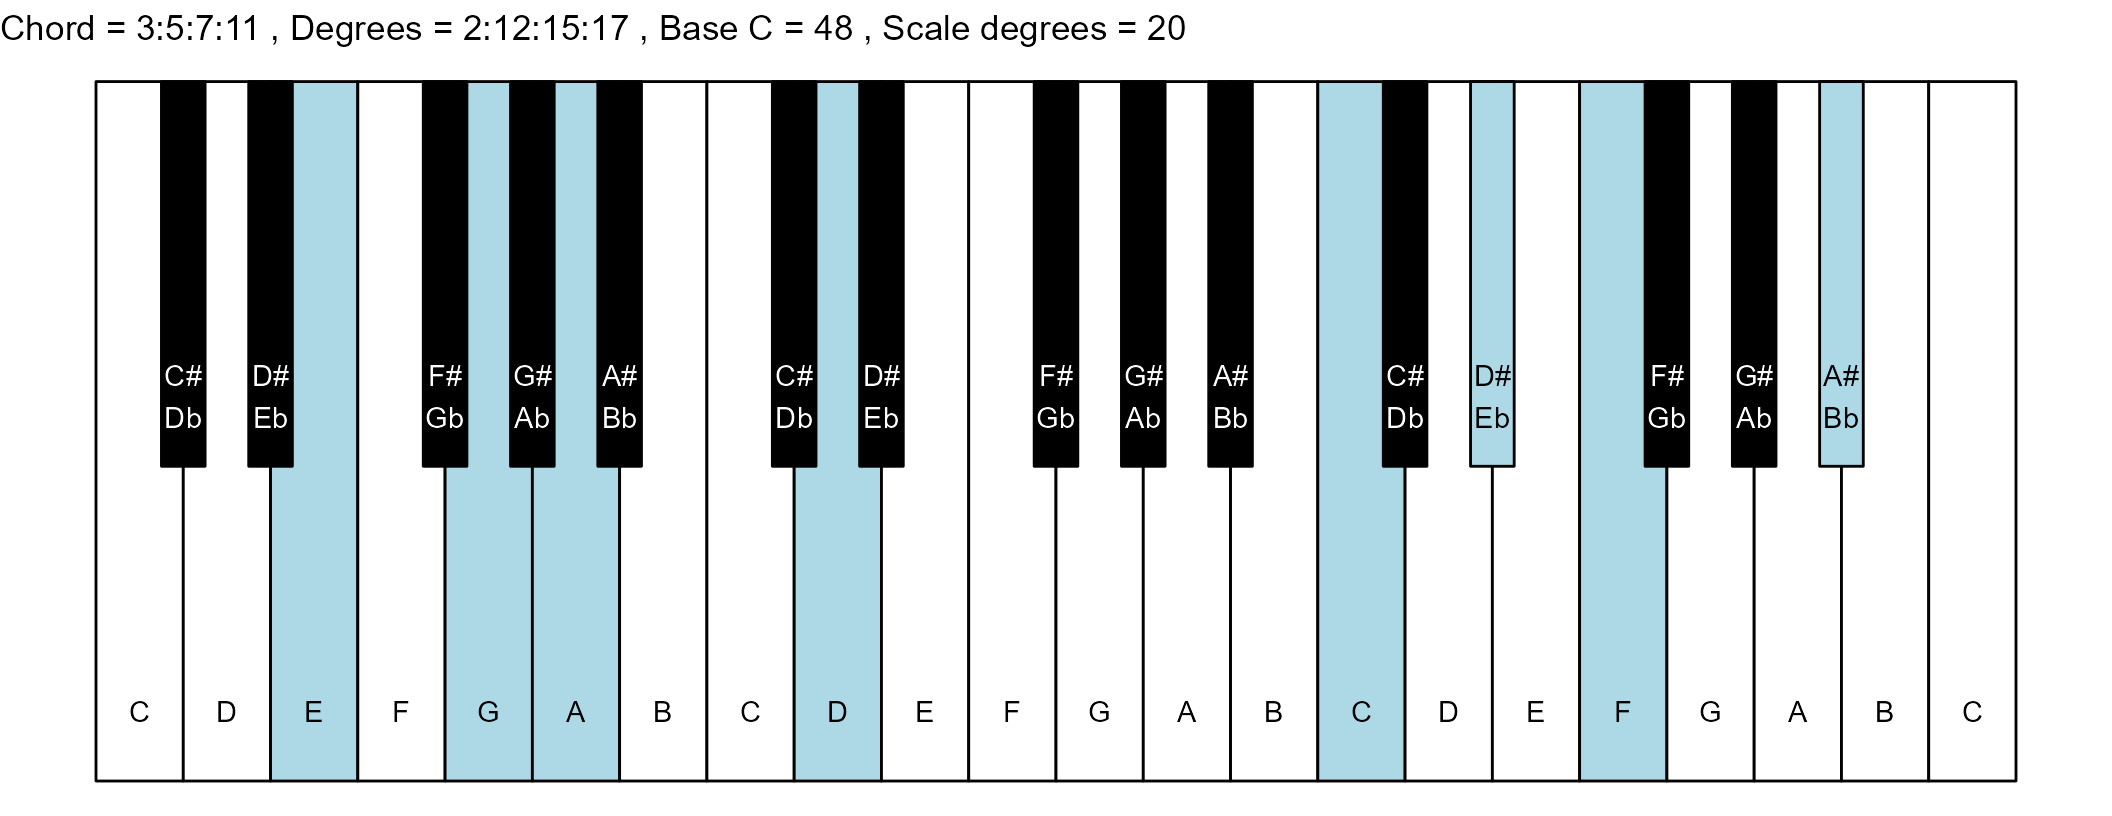
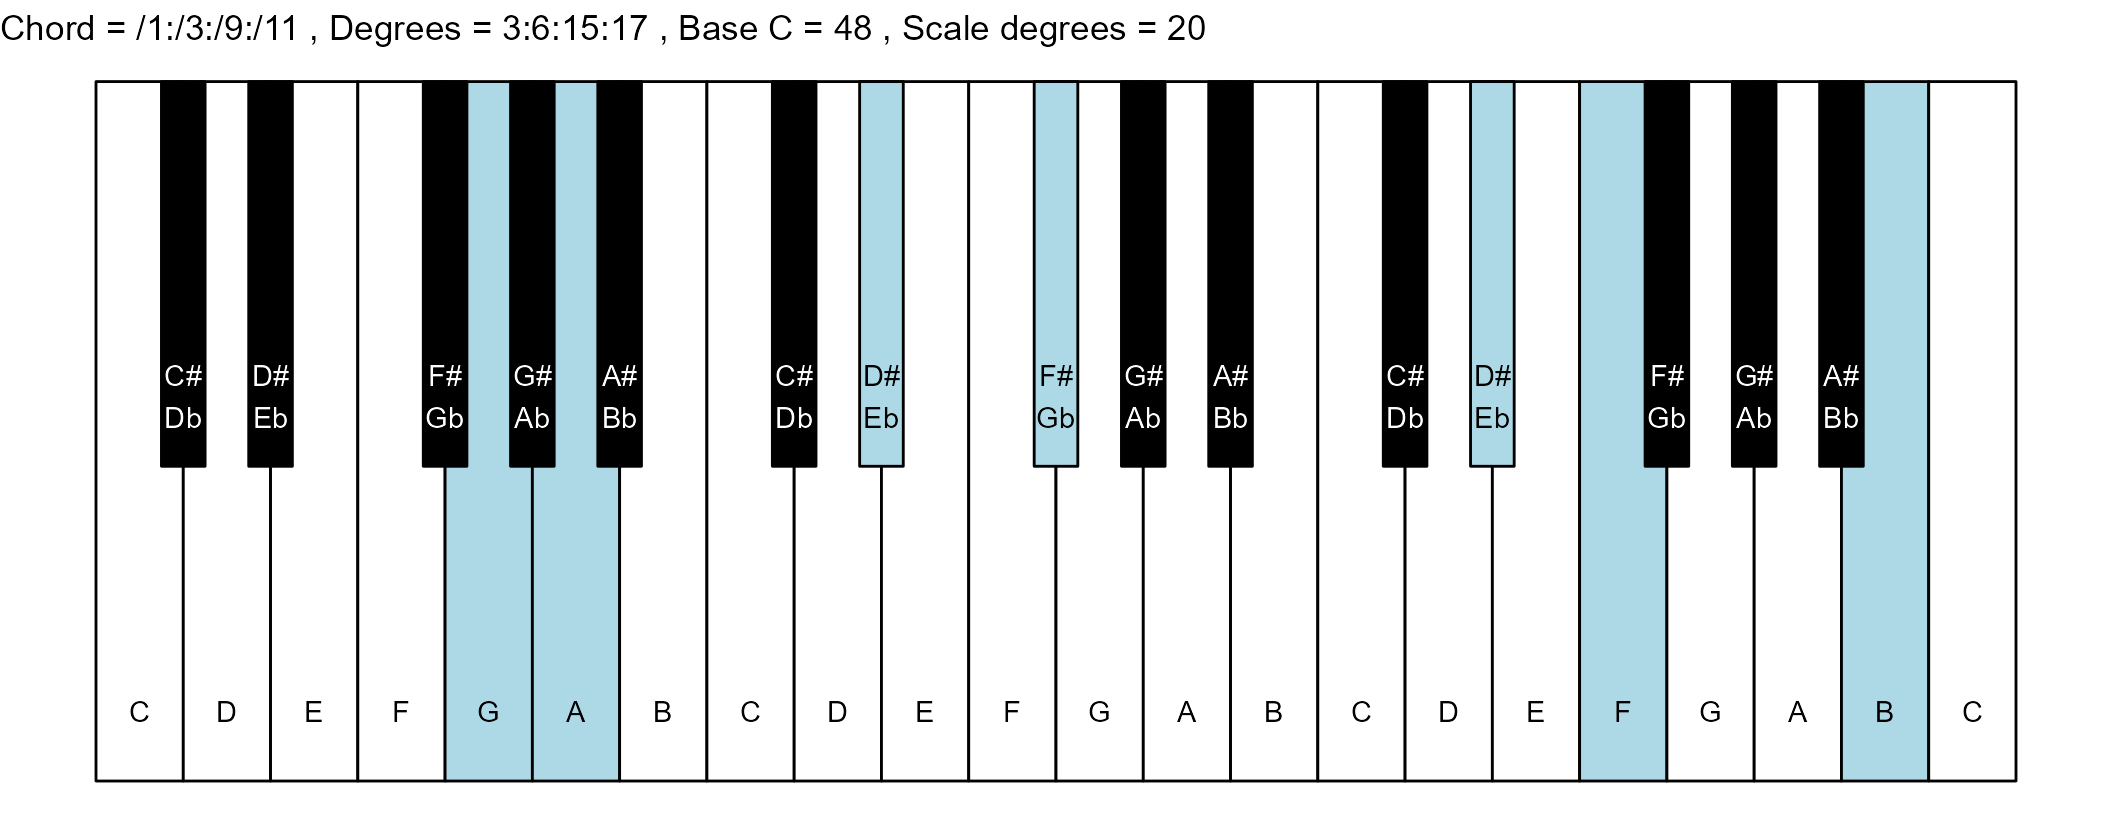
close issue #38

diff --git a/docs/articles/run-the-examples.html b/docs/articles/run-the-examples.html
@@ -225,38 +225,38 @@
 <code class="sourceCode R"><span></span>
 <span><span class="co"># compute the tetrads of the 1-3-5-7-9-11 Eikosany</span></span>
 <span><span class="fu"><a href="https://rdrr.io/r/base/print.html" class="external-link">print</a></span><span class="op">(</span><span class="va">eikosany_chords</span> <span class="op">&lt;-</span> <span class="fu"><a href="../reference/create_chord_table.html">create_chord_table</a></span><span class="op">(</span><span class="va">eikosany</span>, <span class="fl">4</span><span class="op">)</span><span class="op">)</span></span>
-<span><span class="co">#&gt;            chord     degrees</span></span>
-<span><span class="co">#&gt;  1:      1:3:5:7   1:6:11:15</span></span>
-<span><span class="co">#&gt;  2:      1:3:5:9  7:11:14:19</span></span>
-<span><span class="co">#&gt;  3:     1:3:5:11   2:8:11:13</span></span>
-<span><span class="co">#&gt;  4:      1:3:7:9   1:9:14:18</span></span>
-<span><span class="co">#&gt;  5:     1:3:7:11    1:4:8:12</span></span>
-<span><span class="co">#&gt;  6:     1:3:9:11   5:8:14:16</span></span>
-<span><span class="co">#&gt;  7:      1:5:7:9    3:6:9:19</span></span>
-<span><span class="co">#&gt;  8:     1:5:7:11   4:6:13:17</span></span>
-<span><span class="co">#&gt;  9:     1:5:9:11 10:13:16:19</span></span>
-<span><span class="co">#&gt; 10:     1:7:9:11    0:4:9:16</span></span>
-<span><span class="co">#&gt; 11:      3:5:7:9   3:7:15:18</span></span>
-<span><span class="co">#&gt; 12:     3:5:7:11  2:12:15:17</span></span>
-<span><span class="co">#&gt; 13:     3:5:9:11    2:5:7:10</span></span>
-<span><span class="co">#&gt; 14:     3:7:9:11   0:5:12:18</span></span>
-<span><span class="co">#&gt; 15:     5:7:9:11   0:3:10:17</span></span>
-<span><span class="co">#&gt; 16:  /1:/3:/5:/7   0:5:10:16</span></span>
-<span><span class="co">#&gt; 17:  /1:/3:/5:/9   0:4:12:17</span></span>
-<span><span class="co">#&gt; 18: /1:/3:/5:/11    0:3:9:18</span></span>
-<span><span class="co">#&gt; 19:  /1:/3:/7:/9  2:10:13:17</span></span>
-<span><span class="co">#&gt; 20: /1:/3:/7:/11   3:7:10:19</span></span>
-<span><span class="co">#&gt; 21: /1:/3:/9:/11   3:6:15:17</span></span>
-<span><span class="co">#&gt; 22:  /1:/5:/7:/9    2:5:8:12</span></span>
-<span><span class="co">#&gt; 23: /1:/5:/7:/11   5:7:14:18</span></span>
-<span><span class="co">#&gt; 24: /1:/5:/9:/11  1:12:15:18</span></span>
-<span><span class="co">#&gt; 25: /1:/7:/9:/11   2:7:11:15</span></span>
-<span><span class="co">#&gt; 26:  /3:/5:/7:/9   4:8:13:16</span></span>
-<span><span class="co">#&gt; 27: /3:/5:/7:/11  9:14:16:19</span></span>
-<span><span class="co">#&gt; 28: /3:/5:/9:/11     1:4:6:9</span></span>
-<span><span class="co">#&gt; 29: /3:/7:/9:/11  6:11:13:19</span></span>
-<span><span class="co">#&gt; 30: /5:/7:/9:/11   1:8:11:14</span></span>
-<span><span class="co">#&gt;            chord     degrees</span></span></code></pre></div>
+<span><span class="co">#&gt;            chord     degrees chord_index is_subharm</span></span>
+<span><span class="co">#&gt;  1:      1:3:5:7   1:6:11:15           1          0</span></span>
+<span><span class="co">#&gt;  2:  /1:/3:/5:/7   0:5:10:16           1          1</span></span>
+<span><span class="co">#&gt;  3:      1:3:5:9  7:11:14:19           2          0</span></span>
+<span><span class="co">#&gt;  4:  /1:/3:/5:/9   0:4:12:17           2          1</span></span>
+<span><span class="co">#&gt;  5:     1:3:5:11   2:8:11:13           3          0</span></span>
+<span><span class="co">#&gt;  6: /1:/3:/5:/11    0:3:9:18           3          1</span></span>
+<span><span class="co">#&gt;  7:      1:3:7:9   1:9:14:18           4          0</span></span>
+<span><span class="co">#&gt;  8:  /1:/3:/7:/9  2:10:13:17           4          1</span></span>
+<span><span class="co">#&gt;  9:     1:3:7:11    1:4:8:12           5          0</span></span>
+<span><span class="co">#&gt; 10: /1:/3:/7:/11   3:7:10:19           5          1</span></span>
+<span><span class="co">#&gt; 11:     1:3:9:11   5:8:14:16           6          0</span></span>
+<span><span class="co">#&gt; 12: /1:/3:/9:/11   3:6:15:17           6          1</span></span>
+<span><span class="co">#&gt; 13:      1:5:7:9    3:6:9:19           7          0</span></span>
+<span><span class="co">#&gt; 14:  /1:/5:/7:/9    2:5:8:12           7          1</span></span>
+<span><span class="co">#&gt; 15:     1:5:7:11   4:6:13:17           8          0</span></span>
+<span><span class="co">#&gt; 16: /1:/5:/7:/11   5:7:14:18           8          1</span></span>
+<span><span class="co">#&gt; 17:     1:5:9:11 10:13:16:19           9          0</span></span>
+<span><span class="co">#&gt; 18: /1:/5:/9:/11  1:12:15:18           9          1</span></span>
+<span><span class="co">#&gt; 19:     1:7:9:11    0:4:9:16          10          0</span></span>
+<span><span class="co">#&gt; 20: /1:/7:/9:/11   2:7:11:15          10          1</span></span>
+<span><span class="co">#&gt; 21:      3:5:7:9   3:7:15:18          11          0</span></span>
+<span><span class="co">#&gt; 22:  /3:/5:/7:/9   4:8:13:16          11          1</span></span>
+<span><span class="co">#&gt; 23:     3:5:7:11  2:12:15:17          12          0</span></span>
+<span><span class="co">#&gt; 24: /3:/5:/7:/11  9:14:16:19          12          1</span></span>
+<span><span class="co">#&gt; 25:     3:5:9:11    2:5:7:10          13          0</span></span>
+<span><span class="co">#&gt; 26: /3:/5:/9:/11     1:4:6:9          13          1</span></span>
+<span><span class="co">#&gt; 27:     3:7:9:11   0:5:12:18          14          0</span></span>
+<span><span class="co">#&gt; 28: /3:/7:/9:/11  6:11:13:19          14          1</span></span>
+<span><span class="co">#&gt; 29:     5:7:9:11   0:3:10:17          15          0</span></span>
+<span><span class="co">#&gt; 30: /5:/7:/9:/11   1:8:11:14          15          1</span></span>
+<span><span class="co">#&gt;            chord     degrees chord_index is_subharm</span></span></code></pre></div>
 </div>
 <div class="section level2">
 <h2 id="keyboard-map-examples">Keyboard map examples<a class="anchor" aria-label="anchor" href="#keyboard-map-examples"></a>

diff --git a/docs/reference/create_chord_table.html b/docs/reference/create_chord_table.html
@@ -72,10 +72,16 @@
     <h2 id="value">Value<a class="anchor" aria-label="anchor" href="#value"></a></h2>
     
 
-<p>a data.table with two columns:</p><ul><li><p><code>chord</code>: the chord expressed as colon-separated harmonics. A
+<p>a data.table with four columns:</p><ul><li><p><code>chord</code>: the chord expressed as colon-separated harmonics. A
 subharmonic chord is prefixed with a "~".</p></li>
 <li><p><code>degrees</code>: the chord expressed as colon-separated scale degrees</p></li>
-</ul></div>
+<li><p><code>chord_index</code>: the row number of the chord in the combination output</p></li>
+<li><p><code>is_subharm</code>: zero if it's harmonic, one if it's subharmonic.</p></li>
+</ul><p>The resulting data.table is sorted into harmonic-subharmonic pairs using
+<code>data.table::setkey.</code></p>
+
+
+    </div>
 
     <div class="section level2">
     <h2 id="ref-examples">Examples<a class="anchor" aria-label="anchor" href="#ref-examples"></a></h2>
